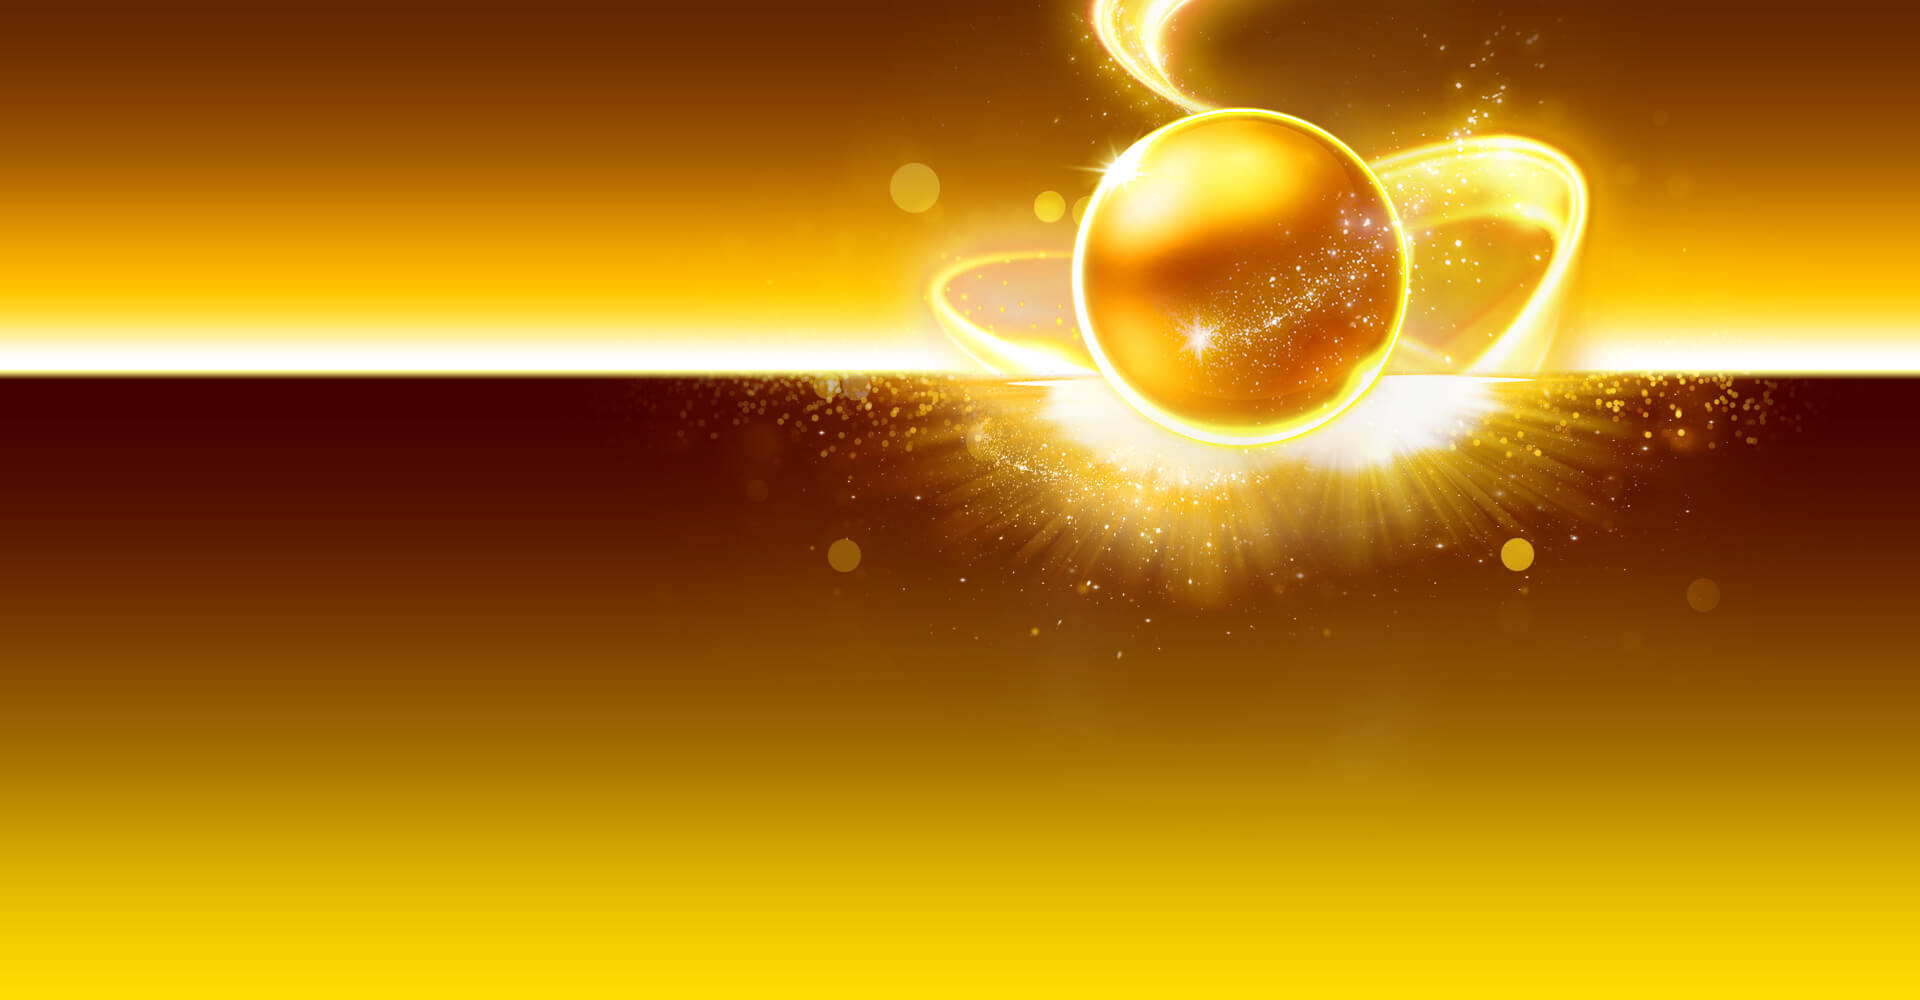
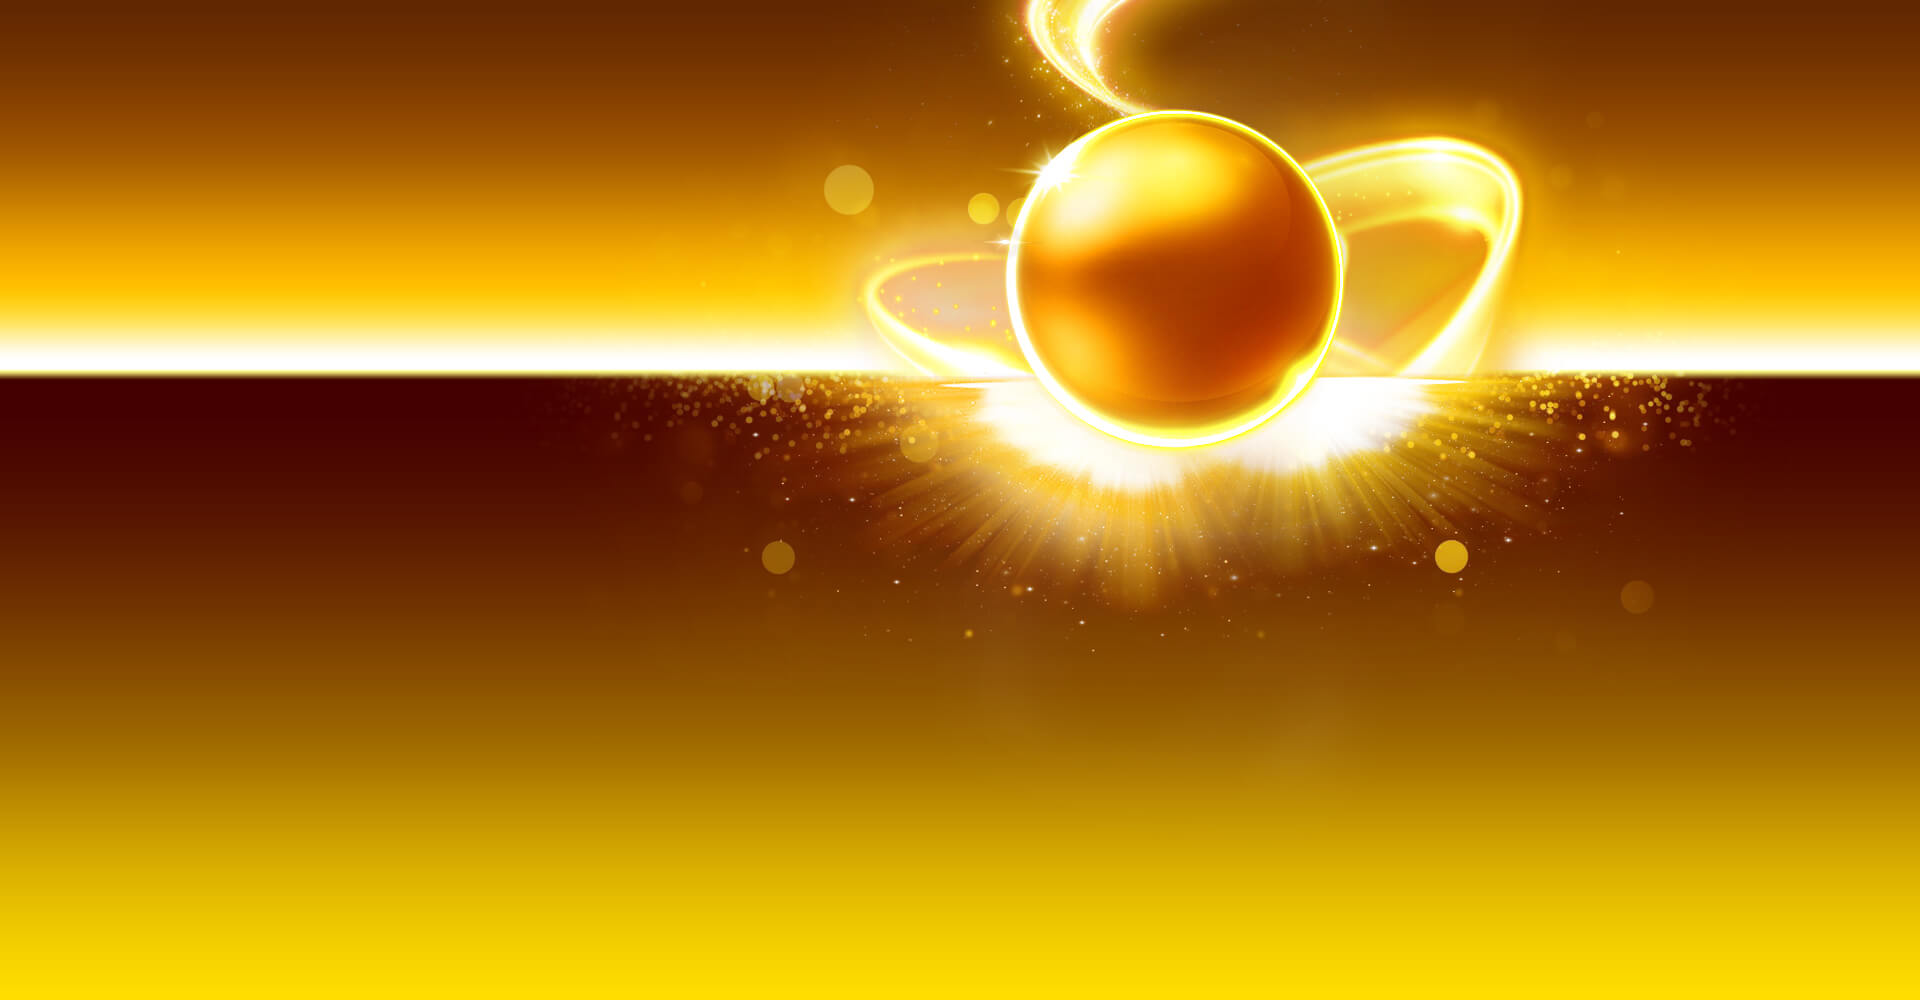
save

Changed region(s): [[0.3125, 0.0, 0.9375, 0.62]]

diff --git a/css/main.scss b/css/main.scss
@@ -44,14 +44,16 @@ main {
             width: 427px;
             height: 268px;
             top: 19px;
-            left: 6px;
+            left: -50px;
+            // left: 6px;
         }
         .login {
             position: absolute;
             width: 415px;
             height: 178px;
             top: 307px;
-            left: 6px;
+            left: -50px;
+            // left: 6px;
             .t {
                 width: 415px;
                 height: 54px;
@@ -172,8 +174,10 @@ main {
             background-size: 100%;
             width: 825px;
             height: 643px;
-            top: 37px;
-            left: 483px;
+            // top: 37px;
+            top: -2px;
+            left: 413px;
+            // left: 483px;
             animation: bounceIn;
             animation-duration: 1s;
         }
@@ -181,10 +185,15 @@ main {
             position: absolute;
             background: url(../images/image1.png) no-repeat top center;
             background-size: 100%;
-            width: 523px;
-            height: 622px;
-            top: 209px;
-            left: 442px;
+            // width: 523px;
+            // height: 622px;
+            width: 518px;
+            height: 672px;
+            // top: 209px;
+            // left: 372px;
+            top: 166px;
+            left: 383px;
+            // left: 442px;
             animation: bounceIn;
             animation-duration: 1s;
         }
@@ -193,6 +202,7 @@ main {
         position: absolute;
         background: url(../images/bg.jpg) no-repeat top center;
         background-size: 1920px;
+        // background-position: -375px 0;
         width: 100%;
         height: 100%;
         z-index: -20;

diff --git a/css/main.css b/css/main.css
@@ -95,14 +95,14 @@ main article .logo {
   width: 427px;
   height: 268px;
   top: 19px;
-  left: 6px;
+  left: -50px;
 }
 main article .login {
   position: absolute;
   width: 415px;
   height: 178px;
   top: 307px;
-  left: 6px;
+  left: -50px;
 }
 main article .login .t {
   width: 415px;
@@ -222,8 +222,8 @@ main article .image2 {
   background-size: 100%;
   width: 825px;
   height: 643px;
-  top: 37px;
-  left: 483px;
+  top: -2px;
+  left: 413px;
   animation: bounceIn;
   animation-duration: 1s;
 }
@@ -231,10 +231,10 @@ main article .image1 {
   position: absolute;
   background: url(../images/image1.png) no-repeat top center;
   background-size: 100%;
-  width: 523px;
-  height: 622px;
-  top: 209px;
-  left: 442px;
+  width: 518px;
+  height: 672px;
+  top: 166px;
+  left: 383px;
   animation: bounceIn;
   animation-duration: 1s;
 }

diff --git a/css/ie11.scss b/css/ie11.scss
@@ -1,5 +1,5 @@
-.iebg {
-    @media screen and (-ms-high-contrast: active), (-ms-high-contrast: none) {
+@media screen and (-ms-high-contrast: active), (-ms-high-contrast: none) {
+    .iebg {
         display: block;
         position: absolute;
         background: url(../images/bg.jpg) no-repeat top center;
